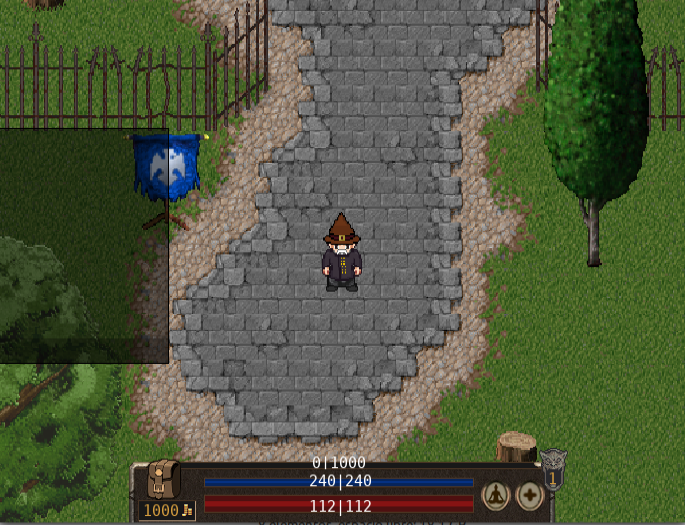
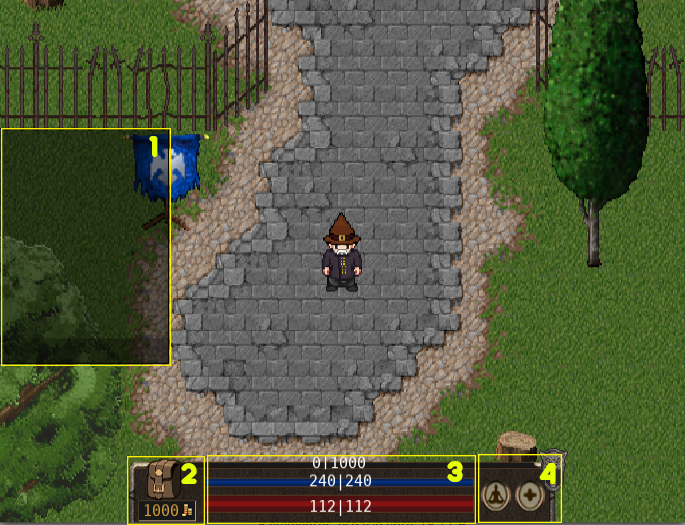
Subo manual de usuario

Changed region(s): [[0.1839, 0.8533, 0.8277, 1.0], [0.0, 0.2438, 0.2759, 0.3048], [0.0, 0.6705, 0.2453, 0.701]]

diff --git a/ManualUsuario.md b/ManualUsuario.md
@@ -1,0 +1,105 @@
+![logo](documentacion\logo.png)
+
+# MANUAL DE USUARIO
+
+Bienvenido a las hermosas y peligrosas tierras de **Argentum Online**. Como dicta un viejo refrán de la zona: "Quien falla en prepararse, debe prepararse para fallar".  Este manual te introducirá a los conceptos básicos para que ninguna criatura pueda enfrentarse a tu sabiduría. Todo comienza en la pantalla de inicio de sesión...
+
+### Pantalla de inicio de sesión
+
+![](documentacion\mu-login.png)
+
+Lo primero que te encontrarás al iniciar la aplicación es este tentador botón de conectar, pero ¡No lo toques aún!, asegúrate que la dirección y el puerto coinciden con las que te ha provisto tu amigo o consulta listas de servidores en línea ¡Hay muchos mundos que explorar!
+
+![](documentacion\mu-login2.png)
+
+El siguiente paso es elegir un nombre, contraseña, raza y clase. Las últimas dos se seleccionan haciendo click sobre sus correspondientes botones. Cuando estés conforme con tu elección pulsa el botón **Nueva Cuenta**.
+
+
+
+### Un vistazo general a la interfaz
+
+![](documentacion\mu-general.png)
+
+La interfaz puede dividirse en cuatro zonas claramente definidas:
+
+1. El chat donde se comunican todos los jugadores independientemente de su ubicación.
+2. El inventario, en donde se muestran los objetos en tu posesión.
+3. Tres barras que indican de arriba hacia abajo: experiencia, mana y vida.
+4. Botones de meditación , resurrección y una simpática gárgola que muestra tu nivel actual. No te preocupes, no muerde.
+
+### El inventario
+
+![](documentacion\mu-inv.png)
+
+Hacer click sobre la bolsa despliega los elementos en tu posesión. Realizar click izquierdo sobre ellos los consume o los equipa, dependiendo del elemento.
+
+![](documentacion\mu-inv2.png)
+
+Cuando equipas un arma o pieza de armadura aparece una pequeña mueca sobre su imágen y podrás notar que el personaje ahora viste el elemento marcado.
+
+![](documentacion\mu-inv3.png)
+
+Hacer click derecho o doble click izquierdo sobre un elemento lo arroja al suelo, pero puedes recuperarlo realizando click sobre la bolsa que has dejado atrás.
+
+![](documentacion\mu-inv4.png)
+
+### Interactuando con los comerciantes
+
+![](documentacion\mu-comerciante.png)
+
+Algunos de los honorables ciudadanos ofrecen sus servicios a quien interactúa con ellos con click izquierdo, En el caso de las tiendas, puedes comprar cualquiera de los elementos que ofrecen si tienes el dinero suficiente. También puedes vender cualquier artículo abriendo tu inventario y efectuando click derecho sobre la posesión que ya no desees poseer.
+
+![](documentacion\mu-banquero.png)
+
+![](documentacion\mu-banquero2.png)
+
+El banquero es un ciudadano particular, pues ofrece gratuitamente la posibilidad de almacenar cualquier pieza que le entregues. ¿Que por qué deberías fiarte de él? ¡Pues porque su familia viene trabajando en el negocio por años! Cuándo logres juntar algo de fé, realiza click derecho sobre cualquier de tus items y éste pasará al panel derecho.
+
+![](documentacion\mu-banquero3.png)
+
+También puedes guardar o retirar una parte de tu oro haciendo click sobre el botón debajo de la bolsa.
+
+
+
+### ¡Hola Mundo!
+
+![](documentacion\mu-chat.png)
+
+Los ciudadanos son honestos, más no muy charlatanes. Si tocas con el ratón la barra inferior del chat podrás comunicarte con el resto de las personas. Los mensajes en blanco son públicos, mientras que los amarillos solo tu puedes leerlos ¡Cuánto secretismo! 
+
+Para enviar un mensaje privado basta con anteponer  "@nombre-del-destinatario " al mensaje.
+
+### Explorando las tierras
+
+![](documentacion\mu-combate.png)
+
+Dentro de las ciudades estás seguro, pero ni bien cruces las puertas te encontrarás con jugadores
+
+y  criaturas poco amigables. Puedes correr o atacarlos con click derecho...
+
+![](documentacion\mu-combate2.png)
+
+Pero si las cosas no resultan como esperabas lamentamos informarte que perderás todo lo que lleves encima y gran parte de tus ganancias. El banquero no suena tan mal después de todo, ¿Verdad?
+
+![](documentacion\mu-combate3.png)
+
+En todo caso la muerte no es el fin, busca al sacerdote y realiza click derecho sobre él para volver a la vida o presiona el botón con la cruz para ahorrarte el viaje. Con eso dicho, los sacerdotes no priorizan a los fantasmas vagos, tendrás que esperar a que te atienda si eliges esta segunda opción.
+
+El botón de meditación, a la izquierda del de resurrección puede usarse en cualquier momento para restaurar maná.
+
+
+
+### Argentum con amigos
+
+Crear tu propio servidor es tan sencillo como ejecutar "servidor" y pasarle un archivo de configuración por la línea de comandos. Dentro del archivo de configuración y los mapas que vienen incluidos con la instalación podrás leer y editar cada aspecto a tu gusto. La dirección y el puerto del servidor son lo primero que debes cambiar, el resto solo se ve limitado por tu imaginación. ¿Quieres mover un árbol 3 m a la derecha? Lo tienes. ¿Bajar el precio de venta de los artículos de un pobre comerciante?  Desde ya. ¿Hacer aparecer a tu amigos en un pozo lleno de zombies? No garantizamos que persista su amistad, pero tampoco hemos implementado restricciones. 
+
+
+
+### ¡La aventura te espera!
+
+![](documentacion\mu-despedida.png)
+
+El mundo esta lleno de paisajes que disfrutar, amigos que conocer y enemigos que derrotar. ¡Alcanza la mejor versión de ti mismo! En **Argentum Online**.
+
+
+
